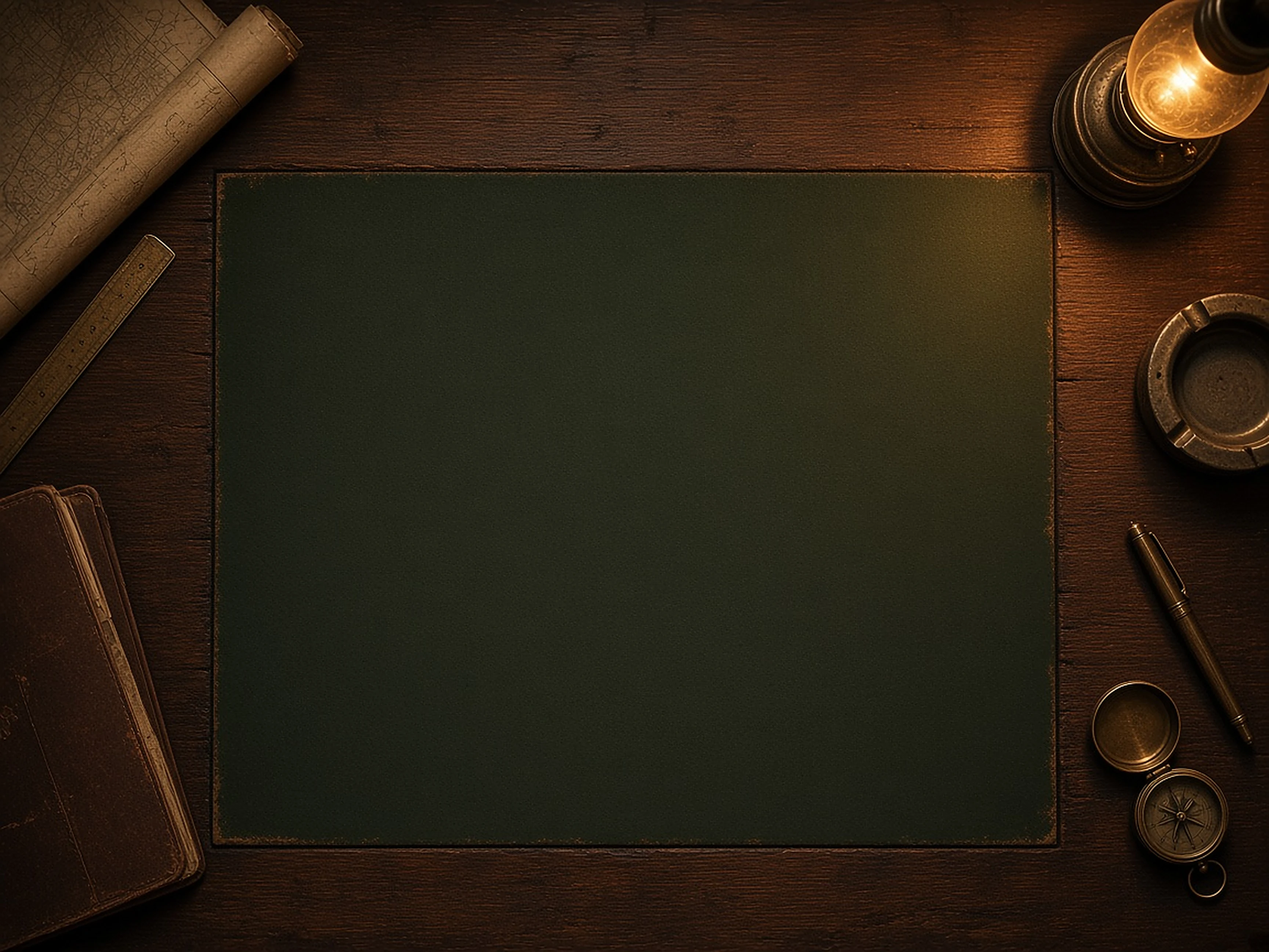
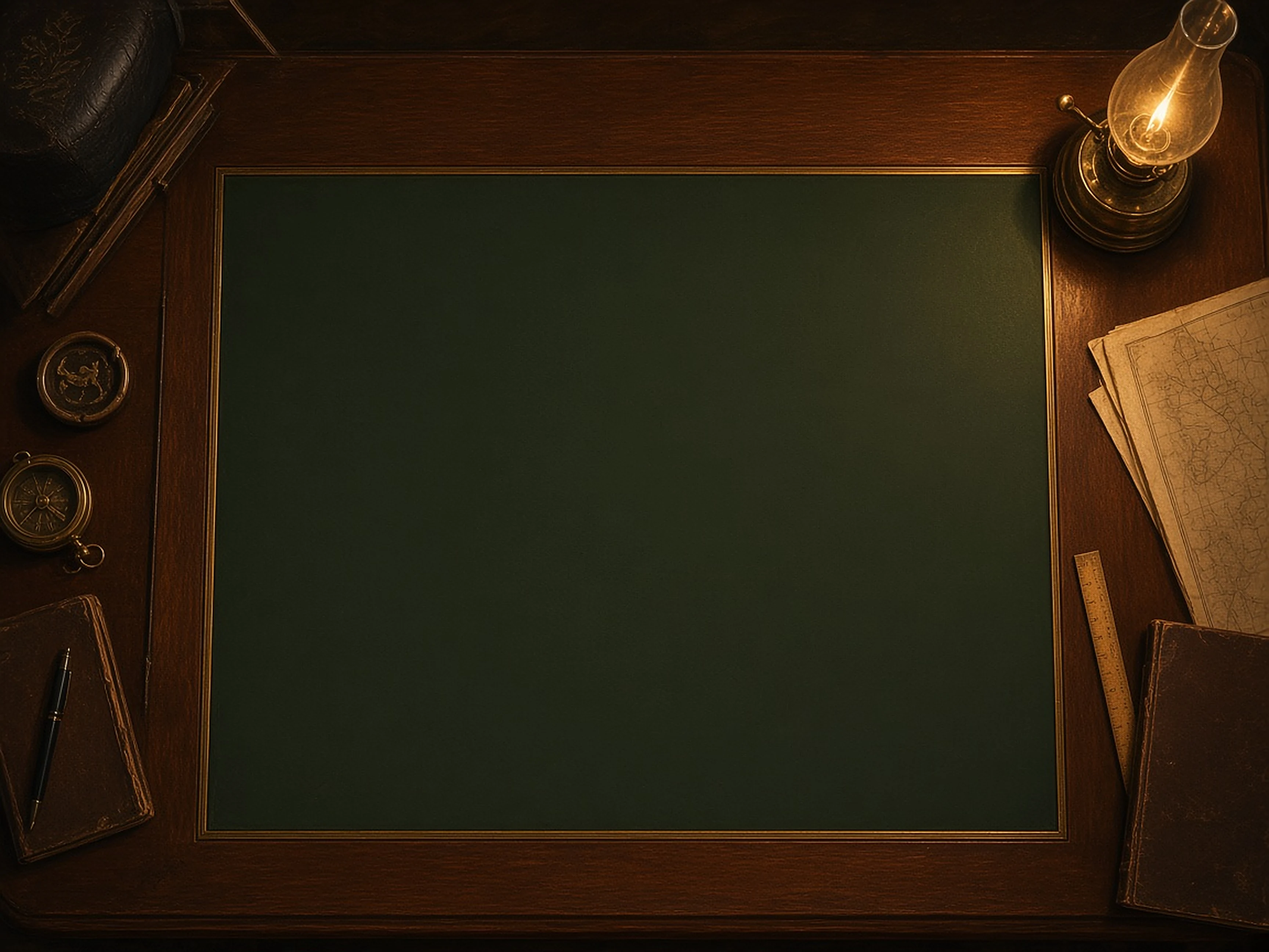
2,5D-Tisch: Ölstudie aktiv (neu kalibriert), Neigung 17°, mehrschichtiges Lampenlicht mit organischem Flackern (t189u)

Changed region(s): [[0.0, 0.0, 1.0, 1.0], [0.1875, 0.9688, 0.2188, 1.0], [0.0, 0.8438, 0.0312, 0.875]]

diff --git a/Division_Command_0.5a/web/css/officer-table.css b/Division_Command_0.5a/web/css/officer-table.css
@@ -1,34 +1,46 @@
-/* Offizierstisch (nur 2,5D, body.dc-cam): ein großes Tischbild (assets/table/officer-table.webp, 3456×2592)
-   liegt IN der Kamera-Welt unter den Slots. Das leere Filzfeld des Bildes (Pixel 585..2865 × 471..2310,
-   Seitenverhältnis 1,24) deckt sich exakt mit der Welt (1760×1420). Bild und Slots teilen so Neigung und Zoom.
-   Das Bild ist nahezu Aufsicht gemalt, daher nur moderate rotateX-Neigung (keine doppelte Verzerrung). */
-body.dc-cam #app .cam-viewport.ot-on { background: #0a0603; perspective: 1700px; perspective-origin: 50% 22%; }
-body.dc-cam #app .cam-viewport.ot-on .cam-tilt { transform: rotateX(11deg); }
+/* Offizierstisch (nur 2,5D, body.dc-cam): Ölstudie assets/table/officer-table.webp (3456×2592, nahezu Aufsicht)
+   liegt IN der Kamera-Welt unter den Slots. Leeres Filzfeld des Bildes (Pixel 591..2853 × 474..2259, innen am Goldrahmen,
+   Seitenverhältnis 1,267) deckt sich exakt mit der Welt (1760×1389). Die Neigung kommt allein von der CSS-Kamera.
+   Alternative (nicht aktiv): officer-table-photo.webp (Filz 585..2865 × 471..2310). */
+body.dc-cam #app .cam-viewport.ot-on { background: #0a0603; perspective: 1600px; perspective-origin: 50% 16%; }
+body.dc-cam #app .cam-viewport.ot-on .cam-tilt { transform: rotateX(17deg); }
 body.dc-cam #app .cam-viewport.ot-on .cam-world {
-  height: 1420px; background: none; border: 0; border-radius: 0; box-shadow: none; isolation: isolate;
+  height: 1389px; background: none; border: 0; border-radius: 0; box-shadow: none; isolation: isolate;
 }
-/* Kalibrierung: Filz links 585/2280 = 25,66 % der Weltbreite, oben 471/1839 = 25,61 % der Welthöhe */
+/* Kalibrierung: Filz links 591/2262 = 26,127 % der Weltbreite, oben 474/1785 = 26,555 % der Welthöhe */
 body.dc-cam #app .cam-world > .ot-desk {
   position: absolute; z-index: -1; pointer-events: none;
-  left: -25.658%; top: -25.612%; width: 151.579%; height: 140.946%;
+  left: -26.127%; top: -26.555%; width: 152.785%; height: 145.210%;
   background: url(../assets/table/officer-table.webp) 0 0 / 100% 100% no-repeat;
 }
-/* Sehr dezentes Flackern über dem GEMALTEN Lichtkegel der Lampe (oben rechts im Bild) */
+/* Lampenlicht: kommt von der gemalten Lampe (Flamme bei 91 % / 12 % des Bildes) und fällt über Filz und Holz ab.
+   Drei Ebenen mit eigenen, teilerfremden Animationszeiten → unregelmäßiges, organisches Flackern. */
+body.dc-cam #app .cam-world > .ot-desk > div { position: absolute; inset: 0; pointer-events: none; transform-origin: 91% 12%; }
+/* 1) Großer warmer Lichtkegel: Helligkeit, Kegelgröße, Farbton */
 body.dc-cam #app .cam-world > .ot-desk > .ot-glow {
-  position: absolute; inset: 0; pointer-events: none; mix-blend-mode: soft-light;
-  background: radial-gradient(ellipse 38% 34% at 83% 6%, #ffc77066 0%, #ffb05522 45%, #0000 75%);
-  animation: ot-flicker 3.7s steps(1, end) infinite;
+  mix-blend-mode: screen;
+  background: radial-gradient(ellipse 62% 70% at 91% 12%, #ffb25a55 0%, #f08a3a30 28%, #c0602018 52%, #0000 78%);
+  animation: ot-bright 2.3s infinite, ot-size 3.7s ease-in-out infinite, ot-hue 5.9s ease-in-out infinite;
 }
+/* 2) Heller Schimmer nahe der Lampe (Reflex auf Holz/Messing), schneller */
+body.dc-cam #app .cam-world > .ot-desk > .ot-glint {
+  mix-blend-mode: screen;
+  background: radial-gradient(circle 14% at 91% 12%, #ffd89a66 0%, #ffb04f2a 45%, #0000 100%);
+  animation: ot-glint 0.97s infinite, ot-size 1.9s ease-in-out infinite reverse;
+}
+/* 3) Abfallendes Licht zur Gegenseite: Schatten atmet gegenläufig mit */
 body.dc-cam #app .cam-world > .ot-desk > .ot-shade {
-  position: absolute; inset: 0; pointer-events: none;
-  background: radial-gradient(ellipse 90% 85% at 80% 10%, #0000 55%, #0004 100%);
-  animation: ot-shade 5.3s ease-in-out infinite;
+  background: radial-gradient(ellipse 120% 115% at 91% 12%, #0000 38%, #0002 62%, #000a 100%);
+  animation: ot-shade 3.1s infinite;
 }
+@keyframes ot-bright { 0%{opacity:.95} 7%{opacity:.7} 11%{opacity:1} 23%{opacity:.82} 29%{opacity:.62} 34%{opacity:.9} 47%{opacity:.78} 55%{opacity:1} 63%{opacity:.68} 71%{opacity:.88} 82%{opacity:.74} 90%{opacity:.97} 100%{opacity:.95} }
+@keyframes ot-size { 0%,100%{transform:scale(1)} 21%{transform:scale(1.04)} 44%{transform:scale(.97)} 68%{transform:scale(1.03)} 83%{transform:scale(.985)} }
+@keyframes ot-hue { 0%,100%{filter:hue-rotate(0deg) saturate(1)} 35%{filter:hue-rotate(-8deg) saturate(1.15)} 70%{filter:hue-rotate(6deg) saturate(.9)} }
+@keyframes ot-glint { 0%{opacity:.8} 13%{opacity:.45} 19%{opacity:1} 38%{opacity:.6} 52%{opacity:.9} 61%{opacity:.35} 77%{opacity:.85} 100%{opacity:.8} }
+@keyframes ot-shade { 0%{opacity:1} 17%{opacity:.86} 31%{opacity:1} 49%{opacity:.9} 66%{opacity:1.0} 78%{opacity:.82} 100%{opacity:1} }
 /* Lesbarkeit der Zonen auf dem Filz, ohne Gitter */
 body.dc-cam #app .cam-viewport.ot-on .row-label { color: #e2d3a4; text-shadow: 0 1px 2px #000; font-family: Georgia, 'Times New Roman', serif; }
 body.dc-cam #app .cam-viewport.ot-on .nml-band { border-top: 1px dashed #d8c79a33; border-bottom: 1px dashed #d8c79a33; }
-@keyframes ot-flicker { 0%{opacity:.9} 9%{opacity:.75} 14%{opacity:.95} 31%{opacity:.82} 38%{opacity:1} 52%{opacity:.78} 61%{opacity:.93} 74%{opacity:.85} 88%{opacity:.97} }
-@keyframes ot-shade { 0%,100%{opacity:1} 40%{opacity:.85} 70%{opacity:.95} }
-/* Reduced-Motion: kein Flackern (Media-Query und JS-Flag) */
-.cam-viewport[data-flicker="off"] .ot-glow, .cam-viewport[data-flicker="off"] .ot-shade { animation: none !important; }
-@media (prefers-reduced-motion: reduce) { .ot-glow, .ot-shade { animation: none !important; } }
+/* Reduced-Motion: Flackern aus, ruhiges warmes Licht bleibt stehen */
+.cam-viewport[data-flicker="off"] .ot-glow, .cam-viewport[data-flicker="off"] .ot-glint, .cam-viewport[data-flicker="off"] .ot-shade { animation: none !important; }
+@media (prefers-reduced-motion: reduce) { .ot-glow, .ot-glint, .ot-shade { animation: none !important; } }

diff --git a/scripts/test_officer_table.js b/scripts/test_officer_table.js
@@ -12,20 +12,27 @@ for (const m of css.matchAll(/url\(\.\.\/([^)]+)\)/g)) assert(fs.existsSync(path
 const img = fs.readFileSync(path.join(WEB, 'assets/table/officer-table.webp'));
 assert(img.slice(0, 4).toString() === 'RIFF' && img.slice(8, 12).toString() === 'WEBP' && img.length > 200000, 'Tischbild ist echtes WebP');
 const vp8 = img.indexOf('VP8'); assert(vp8 > 0);
-// Kalibrierung: Filzrechteck (585..2865 × 471..2310 von 3456×2592) ↔ Welt 1760×1420
-const F = { x: 585, y: 471, w: 2280, h: 1839 }, IMG = { w: 3456, h: 2592 };
-assert(Math.abs(F.w / F.h - 1760 / 1420) < 0.01, 'Filz-Seitenverhältnis = Welt');
+// Kalibrierung: Filzrechteck Ölstudie (591..2853 × 474..2259 von 3456×2592) ↔ Welt 1760×1420
+const F = { x: 591, y: 474, w: 2262, h: 1785 }, IMG = { w: 3456, h: 2592 };
+assert(Math.abs(F.w / F.h - 1760 / 1389) < 0.01, 'Filz-Seitenverhältnis = Welt');
 const pct = (re) => Number(css.match(re)[1]);
 assert(Math.abs(pct(/left: -([\d.]+)%/) - F.x / F.w * 100) < 0.01 && Math.abs(pct(/top: -([\d.]+)%/) - F.y / F.h * 100) < 0.01, 'Offset kalibriert');
 assert(Math.abs(pct(/width: ([\d.]+)%; height/) - IMG.w / F.w * 100) < 0.01 && Math.abs(pct(/height: ([\d.]+)%;\n/) - IMG.h / F.h * 100) < 0.01, 'Größe kalibriert');
-assert(/height: 1420px/.test(css));
+assert(/height: 1389px/.test(css));
 assert(!fs.existsSync(path.join(WEB, 'assets/table/oil-lamp.svg')), 'alte SVG-Lampe entfernt');
+assert(/url\(\.\.\/assets\/table\/officer-table\.webp\)/.test(css) && !/officer-table-photo\.webp\)/.test(css), 'Ölstudie aktiv, Foto nur Alternative');
+// Ölstudie = Hash der erzeugten Quelle (Pixelvergleich grob: Goldrahmen oben links hell)
+const tilt = Number(css.match(/\.cam-tilt \{ transform: rotateX\((\d+)deg\)/)[1]); assert(tilt >= 16 && tilt <= 18, 'Neigung 16–18°: ' + tilt);
+for (const k of ['ot-bright', 'ot-size', 'ot-hue', 'ot-glint', 'ot-shade']) assert(new RegExp('@keyframes ' + k + ' ').test(css), 'Flacker-Keyframes ' + k);
+const durs = [...css.matchAll(/animation: ([^;]+);/g)].map(m => m[1]).join(' ');
+assert(new Set(durs.match(/[\d.]+s/g)).size >= 5, 'mehrere unterschiedliche Animationszeiten');
+assert(/at 91% 12%/.test(css), 'Licht vom Lampenstandort');
 const html = fs.readFileSync(path.join(WEB, 'index.html'), 'utf8');
 assert(/css\/officer-table\.css\?v=/.test(html), 'officer-table.css eingebunden');
-assert(/const CACHE = 'divcmd-ot2'/.test(fs.readFileSync(path.join(WEB, 'sw.js'), 'utf8')), 'SW-Cache angehoben');
+assert(/const CACHE = 'divcmd-ot3'/.test(fs.readFileSync(path.join(WEB, 'sw.js'), 'utf8')), 'SW-Cache angehoben');
 assert(/prefers-reduced-motion: reduce\)\s*\{[^}]*\.ot-glow[^}]*animation: none/.test(css), 'Media-Query stoppt Flackern');
-assert(/data-flicker="off"\] \.ot-glow/.test(css), 'JS-Flag stoppt Flackern');
-assert((css.match(/pointer-events: none/g) || []).length >= 3, 'Bild/Licht nie klickbar');
+assert(/data-flicker="off"\] \.ot-glow, \.cam-viewport\[data-flicker="off"\] \.ot-glint/.test(css), 'JS-Flag stoppt Flackern');
+assert(/\.ot-desk \{\s*position: absolute; z-index: -1; pointer-events: none/.test(css) && /\.ot-desk > div \{[^}]*pointer-events: none/.test(css), 'Bild/Licht nie klickbar');
 // Flach (Standard): keine Inszenierung, Tisch intakt
 w.dcRender();
 const slotCount = () => ['#enemy-support', '#enemy-front', '#my-front', '#my-support'].map(id => $(id) ? $(id).querySelectorAll('.slot').length : -1).join();
@@ -37,7 +44,7 @@ const sel = $('#opt-table-view'); sel.value = 'cam'; sel.dispatchEvent(new w.Eve
 const vp = $('#cam-viewport');
 assert(vp && vp.classList.contains('ot-on'), '2,5D lädt Offizierstisch');
 assert.equal($$('#cam-world > .ot-desk').length, 1, 'Tischbild in der Kamera-Welt (gleiche Perspektive wie Slots)');
-assert($('.ot-desk > .ot-glow') && !$('.ot-lamp, .ot-light, .ot-vignette'), 'Lampe nur im Bild, kein separates UI-Objekt');
+assert($('.ot-desk > .ot-glow') && $('.ot-desk > .ot-glint') && $('.ot-desk > .ot-shade') && !$('.ot-lamp, .ot-light, .ot-vignette'), 'Lampe nur im Bild, kein separates UI-Objekt');
 assert(!$('.ot-desk .slot'), 'keine Slots im Bild');
 assert.equal(vp.getAttribute('data-flicker'), 'on');
 w.dcRender(); assert.equal($$('.ot-desk').length, 1, 'kein Doppel bei Rerender');

diff --git a/Division_Command_0.5a/web/index.html b/Division_Command_0.5a/web/index.html
@@ -16,7 +16,7 @@
   <link rel="stylesheet" href="css/table-cards.css?v=fit1">
   <link rel="stylesheet" href="css/table-effects.css?v=fit1">
   <link rel="stylesheet" href="css/table-camera.css?v=ot1">
-  <link rel="stylesheet" href="css/officer-table.css?v=ot2">
+  <link rel="stylesheet" href="css/officer-table.css?v=ot3">
   <link rel="stylesheet" href="css/inspect-large.css?v=1">
   <link rel="stylesheet" href="css/table-chat.css?v=1">
   <link rel="stylesheet" href="css/hud-pro.css?v=1">
@@ -698,7 +698,7 @@
   <script src="js/data/table-art-data.js?v=1"></script>
   <script src="js/ui/table-card-art.js?v=kw1"></script>
   <script src="js/ui/table-effects.js?v=1"></script>
-  <script src="js/ui/table-camera.js?v=ot2"></script>
+  <script src="js/ui/table-camera.js?v=ot3"></script>
   <script src="js/ui/end-screen.js?v=1"></script>
   <script src="js/ui/app.js?v=kw1"></script>
   <script src="js/ui/audio-feedback.js?v=1"></script>

diff --git a/Division_Command_0.5a/web/js/ui/table-camera.js b/Division_Command_0.5a/web/js/ui/table-camera.js
@@ -214,7 +214,7 @@
     var w = vp.querySelector('#cam-world');
     if (w && !w.querySelector(':scope > .ot-desk')) {
       var d = document.createElement('div'); d.className = 'ot-desk'; d.setAttribute('aria-hidden', 'true');
-      d.innerHTML = '<div class="ot-glow"></div><div class="ot-shade"></div>';
+      d.innerHTML = '<div class="ot-glow"></div><div class="ot-glint"></div><div class="ot-shade"></div>';
       w.insertBefore(d, w.firstChild);
     }
     syncFlicker();

diff --git a/Division_Command_0.5a/web/sw.js b/Division_Command_0.5a/web/sw.js
@@ -1,4 +1,4 @@
-const CACHE = 'divcmd-ot2';
+const CACHE = 'divcmd-ot3';
 const ASSETS = [
   './',
   './index.html',
